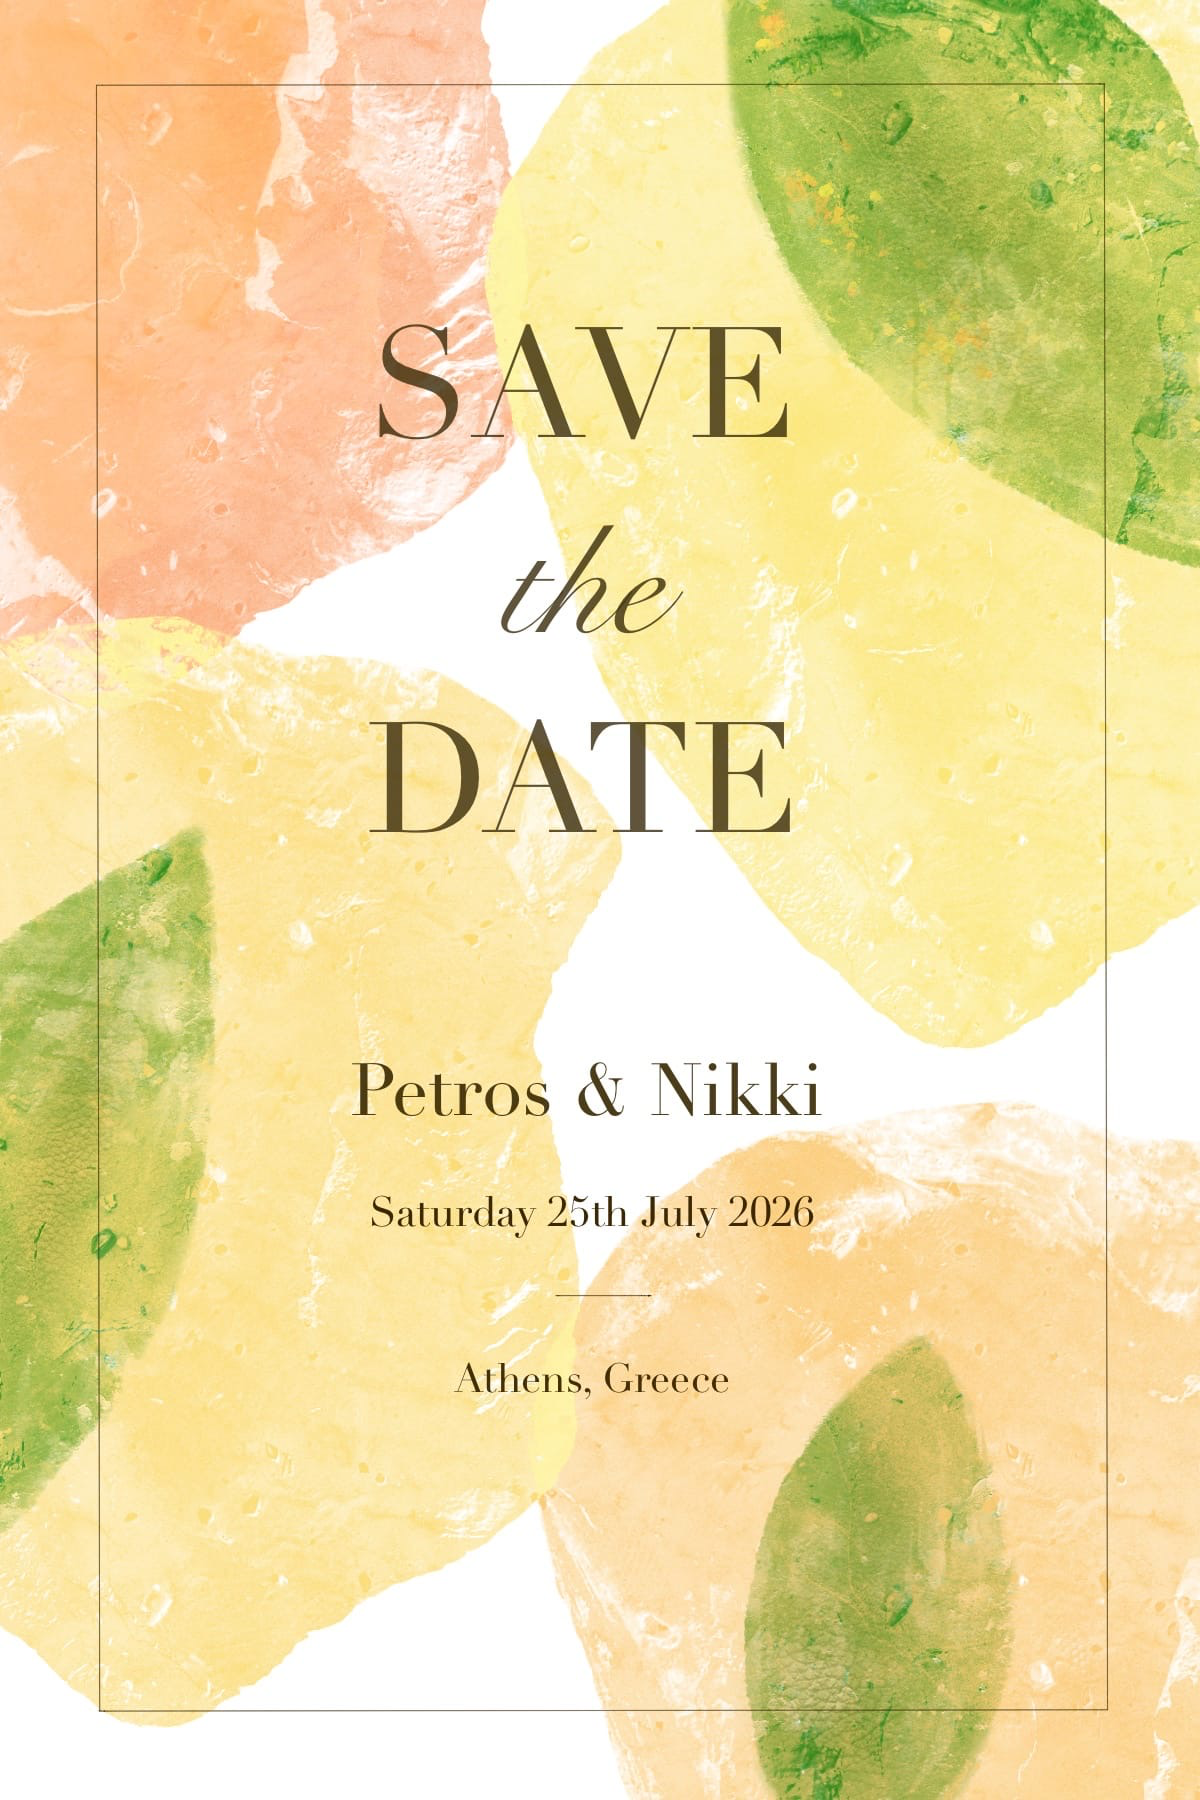
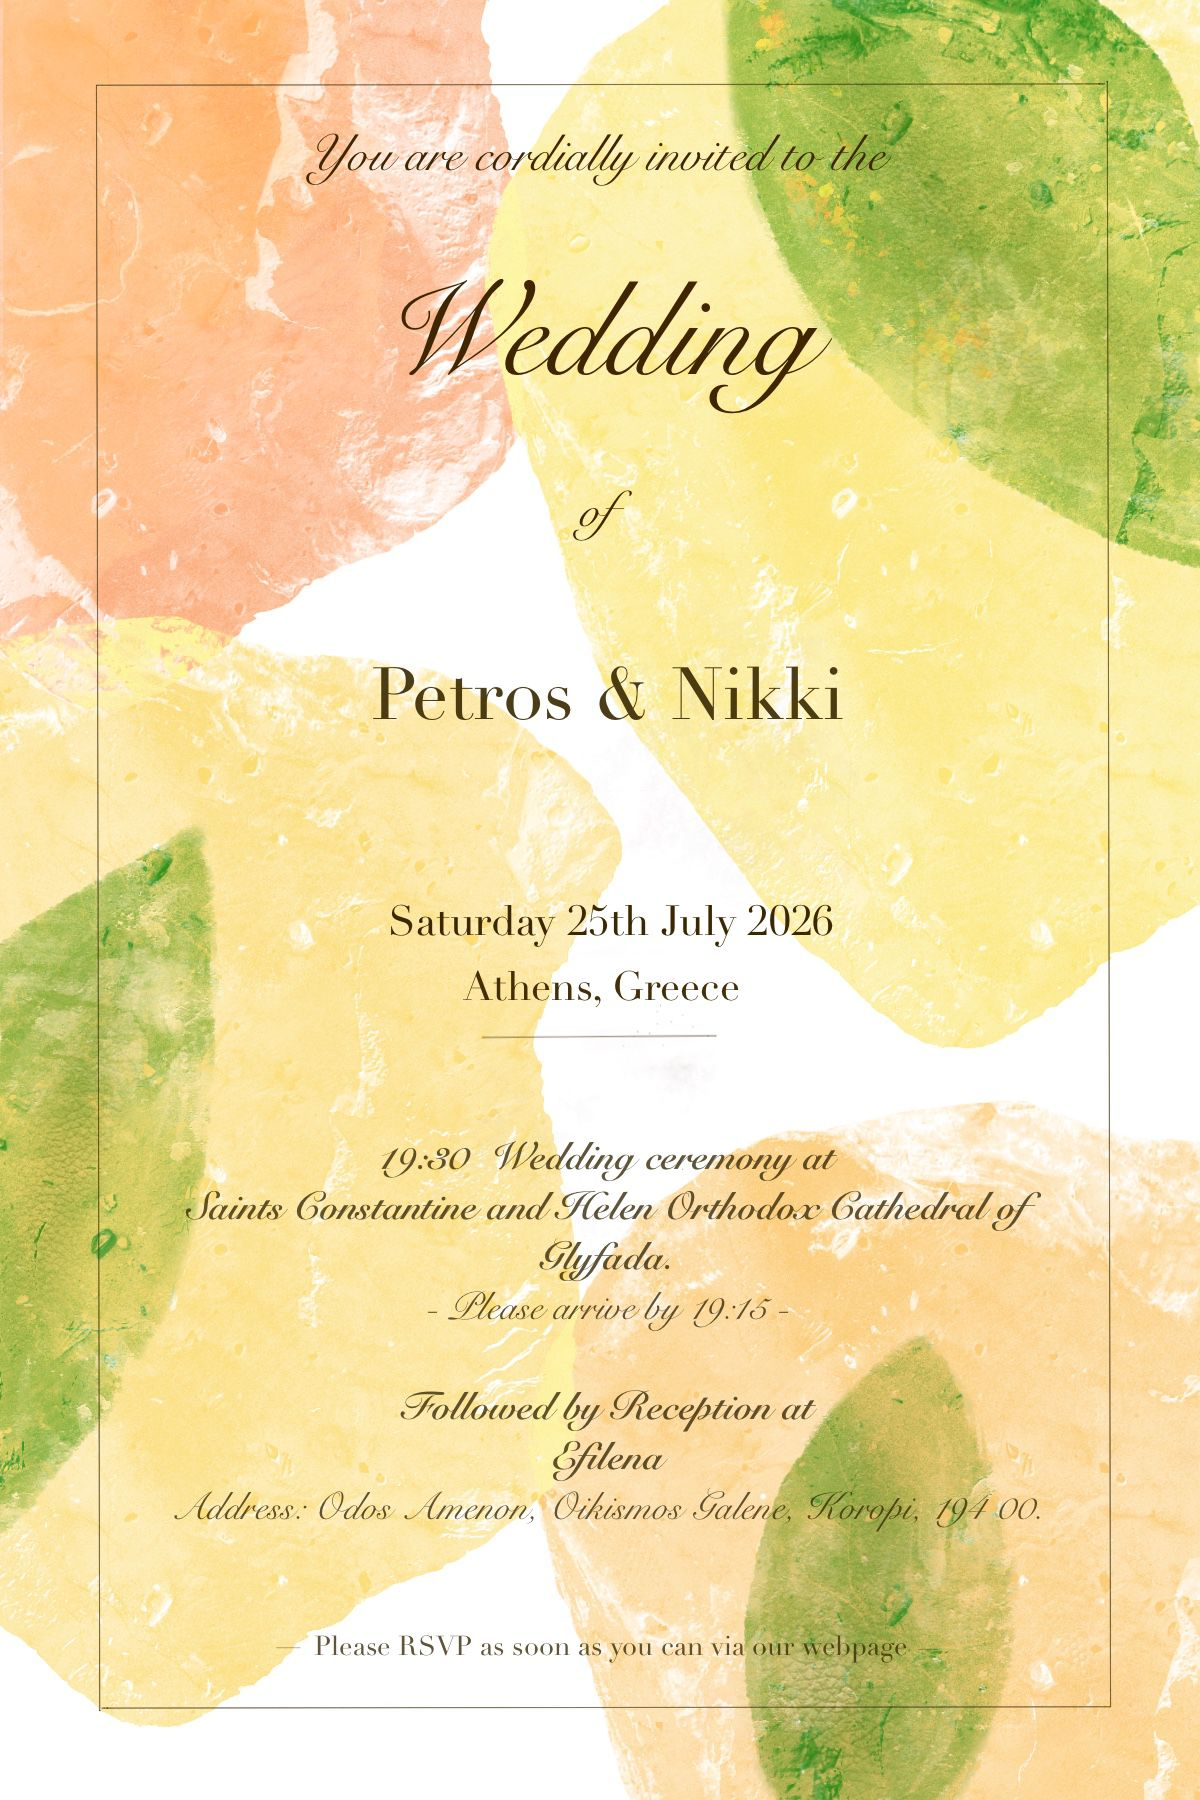
added info , new invitation, removed rsvps table

diff --git a/src/routes/invitation.tsx b/src/routes/invitation.tsx
@@ -1,5 +1,7 @@
 import { Link, createFileRoute } from "@tanstack/react-router";
-import { ArrowRight, Home } from "lucide-react";
+import { ArrowRight, Check, Copy, Home } from "lucide-react";
+import { useEffect, useState } from "react";
+import { toast } from "sonner";
 import invitationImage from "@/assets/invitation-reference.png";
 
 export const Route = createFileRoute("/invitation")({
@@ -13,6 +15,30 @@ function Invitation() {
   const search = Route.useSearch();
   const inviteCode = (search.code ?? "").trim().toLowerCase();
   const homeSearch = inviteCode ? { code: inviteCode } : {};
+  const [copied, setCopied] = useState(false);
+
+  useEffect(() => {
+    if (!copied) {
+      return;
+    }
+
+    const timeout = window.setTimeout(() => setCopied(false), 1800);
+    return () => window.clearTimeout(timeout);
+  }, [copied]);
+
+  async function copyInviteCode() {
+    if (!inviteCode) {
+      return;
+    }
+
+    try {
+      await navigator.clipboard.writeText(inviteCode);
+      setCopied(true);
+      toast.success("Invitation code copied.");
+    } catch {
+      toast.error("Could not copy invitation code.");
+    }
+  }
 
   return (
     <section className="section-theme theme-hero min-h-screen px-4 py-8 md:px-6 md:py-12">
@@ -23,24 +49,37 @@ function Invitation() {
           className="w-full max-w-3xl border border-olive/20 bg-cream shadow-xl shadow-olive/10"
         />
 
-        <div className="sticky bottom-4 z-20 flex w-full max-w-3xl flex-col gap-3 border border-olive/20 bg-cream/90 p-3 shadow-lg shadow-olive/10 backdrop-blur-md sm:flex-row">
-          <Link
-            to="/"
-            hash="rsvp"
-            search={homeSearch}
-            className="inline-flex min-h-12 flex-1 items-center justify-center gap-2 rounded-sm bg-olive px-5 py-3 text-sm uppercase tracking-[0.2em] text-cream transition hover:bg-olive/90"
-          >
-            RSVP
-            <ArrowRight size={16} aria-hidden />
-          </Link>
-          <Link
-            to="/"
-            search={homeSearch}
-            className="inline-flex min-h-12 flex-1 items-center justify-center gap-2 rounded-sm border border-olive/40 px-5 py-3 text-sm uppercase tracking-[0.2em] text-olive transition hover:bg-olive/5"
-          >
-            <Home size={16} aria-hidden />
-            Home
-          </Link>
+        <div className="sticky bottom-4 z-20 w-full max-w-3xl border border-olive/20 bg-cream/90 p-3 shadow-lg shadow-olive/10 backdrop-blur-md">
+          {inviteCode ? (
+            <button
+              type="button"
+              onClick={copyInviteCode}
+              className="mx-auto mb-3 flex items-center justify-center gap-2 font-mono text-[0.65rem] uppercase tracking-[0.18em] text-olive/55 transition hover:text-olive focus-visible:outline-none focus-visible:ring-2 focus-visible:ring-olive/40 focus-visible:ring-offset-2 focus-visible:ring-offset-cream"
+              aria-label={`Copy invitation code ${inviteCode}`}
+            >
+              Invitation code {inviteCode}
+              {copied ? <Check size={12} aria-hidden /> : <Copy size={12} aria-hidden />}
+            </button>
+          ) : null}
+          <div className="flex flex-col gap-3 sm:flex-row">
+            <Link
+              to="/"
+              hash="rsvp"
+              search={homeSearch}
+              className="inline-flex min-h-12 flex-1 items-center justify-center gap-2 rounded-sm bg-olive px-5 py-3 text-sm uppercase tracking-[0.2em] text-cream transition hover:bg-olive/90"
+            >
+              RSVP
+              <ArrowRight size={16} aria-hidden />
+            </Link>
+            <Link
+              to="/"
+              search={homeSearch}
+              className="inline-flex min-h-12 flex-1 items-center justify-center gap-2 rounded-sm border border-olive/40 px-5 py-3 text-sm uppercase tracking-[0.2em] text-olive transition hover:bg-olive/5"
+            >
+              <Home size={16} aria-hidden />
+              Home
+            </Link>
+          </div>
         </div>
       </div>
     </section>

diff --git a/src/routes/index.tsx b/src/routes/index.tsx
@@ -59,20 +59,20 @@ function Hero() {
 /* ---------------- Events ---------------- */
 const events = [
   {
-    time: "5:30 PM",
-    title: "Ceremony",
-    venue: "Agios Dimitrios Church",
-    address: "Plaka, Athens",
-    dress: "Formal · Light colours encouraged",
-    note: "Doors open at 5:00 PM. Please arrive a little early so we can begin on time.",
+    time: "19:30",
+    title: "Wedding ceremony",
+    venue: "Saints Constantine and Helen Orthodox Cathedral of Glyfada",
+    address: "Glyfada, Athens, Greece",
+    dress: "Please arrive by 19:15.",
+    note: "You are cordially invited to join us as we begin our wedding celebration.",
   },
   {
-    time: "7:30 PM",
+    time: "Following the ceremony",
     title: "Reception",
-    venue: "Island Art & Taste",
-    address: "Limanakia, Vouliagmeni",
-    dress: "Cocktail attire · Comfortable shoes for dancing",
-    note: "Welcome drinks, dinner under the stars, and dancing until late.",
+    venue: "Efllena",
+    address: "Odos Amenon, Oikismos Galene, Koropi, 194 00",
+    dress: "Dinner and dancing to follow.",
+    note: "We look forward to celebrating with you after the ceremony.",
   },
 ];
 
@@ -87,7 +87,7 @@ function EventsSection() {
           Saturday, 25<sup className="text-3xl">th</sup> July
         </>
       }
-      subtitle="Two moments to share with the people we love most."
+      subtitle="You are cordially invited to the wedding of Petros & Nikki in Athens, Greece."
     >
       <div className="space-y-8 mt-8">
         {events.map((e) => (
@@ -107,7 +107,9 @@ function EventsSection() {
               </div>
               <div className="flex gap-3">
                 <Clock size={18} className="text-olive shrink-0 mt-1" />
-                <p className="text-sm">Begins at {e.time}</p>
+                <p className="text-sm">
+                  {e.title === "Wedding ceremony" ? `Begins at ${e.time}` : e.time}
+                </p>
               </div>
               <div className="flex gap-3 sm:col-span-2">
                 <Shirt size={18} className="text-olive shrink-0 mt-1" />
@@ -314,7 +316,7 @@ function GiftsSection() {
 const faqs = [
   {
     q: "When should I RSVP by?",
-    a: "Please respond by 1st June 2026 so we can finalise numbers with our venues.",
+    a: "Please RSVP by 15th June 2026 so we can finalise numbers with our venues.",
   },
   {
     q: "Can I bring a plus-one?",
@@ -326,7 +328,7 @@ const faqs = [
   },
   {
     q: "What time should I arrive?",
-    a: "The ceremony begins at 5:30 PM. Please arrive between 5:00 and 5:20 PM so we can start on time.",
+    a: "The wedding ceremony begins at 19:30. Please arrive by 19:15 so we can start on time.",
   },
   {
     q: "What is the dress code?",
@@ -334,11 +336,11 @@ const faqs = [
   },
   {
     q: "Where should I stay?",
-    a: "We recommend staying in central Athens (Plaka, Kolonaki) or near the southern coast in Vouliagmeni. We’ll share a list of partner hotels in your invitation.",
+    a: "We recommend staying in Athens or near the southern coast, with easy access to Glyfada and Koropi.",
   },
   {
     q: "Will there be transport between venues?",
-    a: "Yes — coaches will run from the church to the reception, and back to central Athens late in the evening.",
+    a: "The reception will follow the ceremony at Efllena, Odos Amenon, Oikismos Galene, Koropi, 194 00.",
   },
   {
     q: "Any dietary requirements?",

diff --git a/src/integrations/supabase/types.ts b/src/integrations/supabase/types.ts
@@ -161,39 +161,6 @@ export type Database = {
         };
         Relationships: [];
       };
-      rsvps: {
-        Row: {
-          attending: boolean;
-          created_at: string;
-          dietary_requirements: string | null;
-          email: string;
-          guest_name: string;
-          id: string;
-          message: string | null;
-          number_of_guests: number;
-        };
-        Insert: {
-          attending: boolean;
-          created_at?: string;
-          dietary_requirements?: string | null;
-          email: string;
-          guest_name: string;
-          id?: string;
-          message?: string | null;
-          number_of_guests?: number;
-        };
-        Update: {
-          attending?: boolean;
-          created_at?: string;
-          dietary_requirements?: string | null;
-          email?: string;
-          guest_name?: string;
-          id?: string;
-          message?: string | null;
-          number_of_guests?: number;
-        };
-        Relationships: [];
-      };
       song_requests: {
         Row: {
           artist: string;

diff --git a/src/routes/__root.tsx b/src/routes/__root.tsx
@@ -43,11 +43,14 @@ export const Route = createRootRoute({
       {
         name: "description",
         content:
-          "Save the date. Join Petros & Nikki for their wedding in Athens, Greece on 25 July 2026.",
+          "You are cordially invited to the wedding of Petros & Nikki in Athens, Greece on 25 July 2026.",
       },
       { name: "author", content: "Petros & Nikki" },
       { property: "og:title", content: "Petros & Nikki — 25 July 2026" },
-      { property: "og:description", content: "Save the date. Athens, Greece — 25 July 2026." },
+      {
+        property: "og:description",
+        content: "Wedding ceremony at 19:30 in Glyfada, followed by reception at Efllena.",
+      },
       { property: "og:type", content: "website" },
       { name: "twitter:card", content: "summary" },
       { name: "twitter:site", content: "@Lovable" },

diff --git a/src/components/RsvpContent.tsx b/src/components/RsvpContent.tsx
@@ -253,7 +253,7 @@ export function RsvpContent({ initialCodeFromUrl = "" }: { initialCodeFromUrl?: 
         theme="rsvp"
         eyebrow="Kindly Respond"
         title="RSVP"
-        subtitle="Enter your invitation code to respond by 1st June 2026."
+        subtitle="Enter your invitation code to respond by 15th June 2026."
       >
         <div className="bg-cream/70 backdrop-blur-sm border border-olive/20 p-8 md:p-12 max-w-2xl mx-auto mt-6">
           {status === "idle" && (
